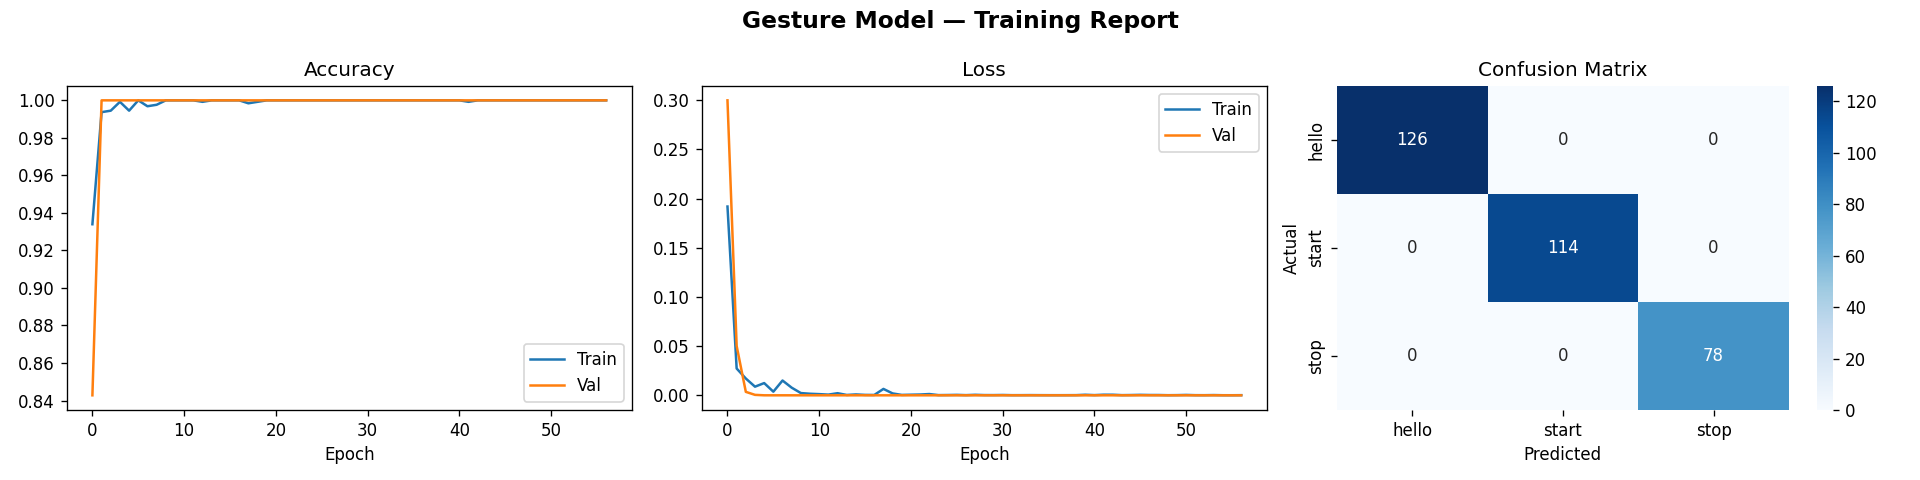
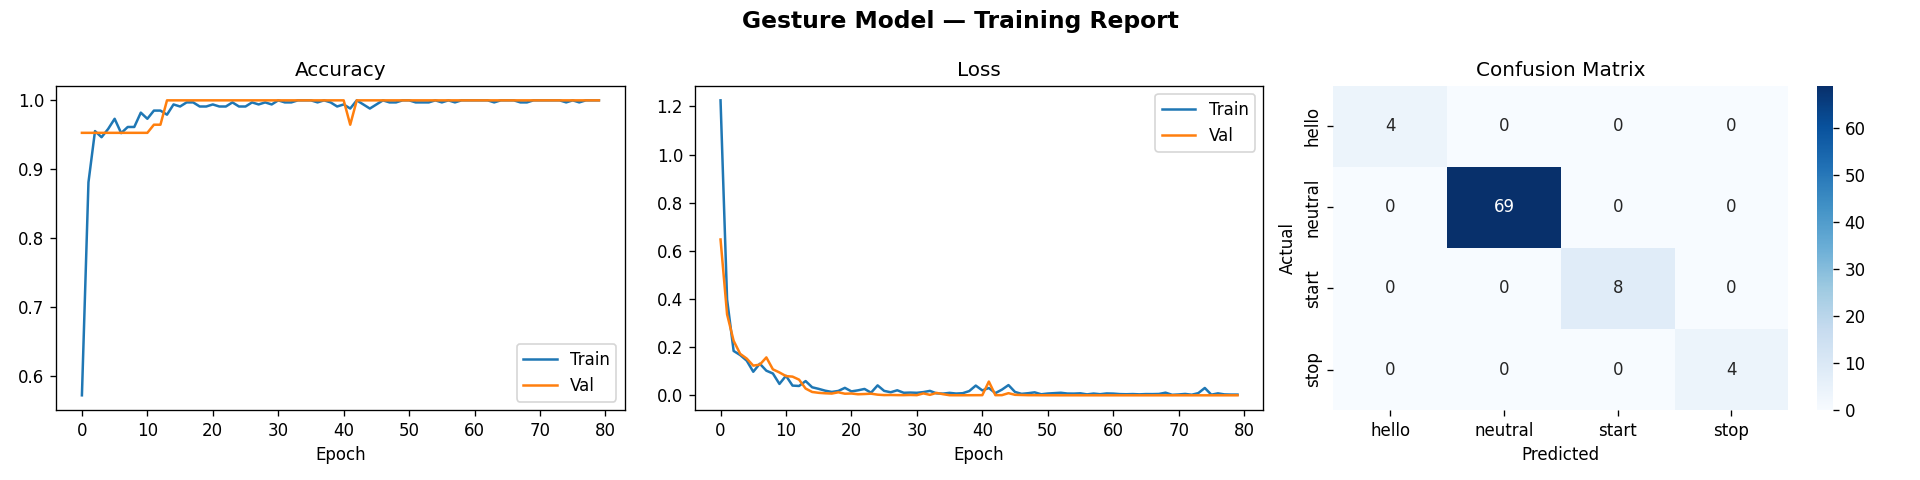
Fix train_model sequence and update project files

diff --git a/train_model.py b/train_model.py
@@ -1,14 +1,9 @@
 """
-Phase 2b — Model Training
+Phase 2b — Model Training (Fixed Architecture Layout)
 Reads gesture_data.csv → trains TensorFlow classifier → saves model + labels
 
 Run AFTER collect_data.py:
     python train_model.py
-
-Outputs:
-    gesture_model.keras   — trained model
-    gesture_labels.txt    — label index mapping (one label per line)
-    training_report.png   — accuracy/loss curves
 """
 
 import os
@@ -20,7 +15,6 @@ from sklearn.preprocessing import LabelEncoder
 from sklearn.metrics import classification_report, confusion_matrix
 import seaborn as sns
 import tensorflow as tf
-from keras import layers, callbacks
 
 # ─── Config ───────────────────────────────────────────────────────────────────
 CSV_FILE    = "gesture_data.csv"
@@ -37,7 +31,6 @@ tf.random.set_seed(SEED)
 np.random.seed(SEED)
 
 # ─── 1. Load data ─────────────────────────────────────────────────────────────
-# ─── 1. Load data ─────────────────────────────────────────────────────────────
 print("=" * 50)
 print("   Phase 2b — Gesture Model Training")
 print("=" * 50)
@@ -45,20 +38,14 @@ print("=" * 50)
 if not os.path.exists(CSV_FILE):
     raise FileNotFoundError(f"[ERROR] {CSV_FILE} not found. Run collect_data.py first.")
 
-# อ่านไฟล์ CSV ขึ้นมาตรวจสอบล่วงหน้า
 df_test = pd.read_csv(CSV_FILE, nrows=2)
-
-# เช็คตรรกะว่าแถวแรกเป็นหัวข้อตัวหนังสือ (label) หรือเป็นข้อมูลดิบขยะไปแล้ว
 first_cell = str(df_test.columns[0]).strip().lower()
 has_header = "label" in first_cell or first_cell.startswith("f")
 
 if has_header:
-    # ถ้ามีหัวข้อปกติ ให้อ่านมาแล้วล้างช่องว่าง (Strip Spaces) ออกจากชื่อคอลัมน์ทั้งหมด
     df = pd.read_csv(CSV_FILE)
     df.columns = df.columns.str.strip()
 else:
-    # หากตรวจสอบแล้วพบว่าเป็นไฟล์เก่าวรรณะขยะที่ไม่มีหัวข้อตาราง 
-    # เราจะทำการสวมชื่อคอลัมน์ให้มันเองโดยอัตโนมัติ เพื่อไม่ให้สคริปต์พัง
     print("[System Note] No valid string header found. Injecting structural column map dynamically...")
     total_cols = df_test.shape[1]
     feature_length = total_cols - 1
@@ -68,12 +55,12 @@ else:
 print(f"\n[Data] Loaded {len(df)} samples from {CSV_FILE}")
 print(f"[Data] Columns : {df.shape[1]-1} features + 1 label")
 
-# Show sample distribution
 print("\n[Data] Samples per gesture:")
 counts = df["label"].value_counts()
 for label, count in counts.items():
     bar = "█" * (count // 5) if (count // 5) > 0 else "▏"
     print(f"  {label:<15} {count:>4}  {bar}")
+
 # ─── 2. Prepare features & labels ────────────────────────────────────────────
 X = df.drop("label", axis=1).values.astype(np.float32)
 y_raw = df["label"].values
@@ -84,21 +71,18 @@ NUM_CLASSES = len(encoder.classes_)
 
 print(f"\n[Labels] {NUM_CLASSES} gestures: {list(encoder.classes_)}")
 
-# Save label list
 with open(LABELS_OUT, "w") as f:
     for label in encoder.classes_:
         f.write(label + "\n")
 print(f"[Labels] Saved to {LABELS_OUT}")
 
 # ─── 3. Normalize features ────────────────────────────────────────────────────
-# Simple min-max per feature across dataset
 X_min = X.min(axis=0)
 X_max = X.max(axis=0)
 denom = (X_max - X_min)
-denom[denom == 0] = 1.0           # avoid div by zero for zero-columns
+denom[denom == 0] = 1.0  
 X_norm = (X - X_min) / denom
 
-# Save normalization params so inference can use the same scaling
 np.save("feature_min.npy", X_min)
 np.save("feature_max.npy", X_max)
 print("[Norm] Saved feature_min.npy / feature_max.npy")
@@ -112,21 +96,22 @@ print(f"\n[Split] Train: {len(X_train)}  |  Val: {len(X_val)}")
 # ─── 5. Build model ───────────────────────────────────────────────────────────
 FEATURE_DIM = X_train.shape[1]
 
+# ปรับการดึง Layers ผ่าน tf.keras โดยตรง เพื่อรองรับ TensorFlow 2.16+ อย่างสมบูรณ์
 model = tf.keras.Sequential([
-    layers.Input(shape=(FEATURE_DIM,)),
+    tf.keras.layers.Input(shape=(FEATURE_DIM,)),
 
-    layers.Dense(256, activation="relu"),
-    layers.BatchNormalization(),
-    layers.Dropout(DROPOUT),
+    tf.keras.layers.Dense(256, activation="relu"),
+    tf.keras.layers.BatchNormalization(),
+    tf.keras.layers.Dropout(DROPOUT),
 
-    layers.Dense(128, activation="relu"),
-    layers.BatchNormalization(),
-    layers.Dropout(DROPOUT),
+    tf.keras.layers.Dense(128, activation="relu"),
+    tf.keras.layers.BatchNormalization(),
+    tf.keras.layers.Dropout(DROPOUT),
 
-    layers.Dense(64, activation="relu"),
-    layers.Dropout(DROPOUT * 0.5),
+    tf.keras.layers.Dense(64, activation="relu"),
+    tf.keras.layers.Dropout(DROPOUT * 0.5),
 
-    layers.Dense(NUM_CLASSES, activation="softmax"),
+    tf.keras.layers.Dense(NUM_CLASSES, activation="softmax"),
 ], name="gesture_classifier")
 
 model.summary()
@@ -138,9 +123,9 @@ model.compile(
 )
 
 # ─── 6. Callbacks ─────────────────────────────────────────────────────────────
-cb_early  = callbacks.EarlyStopping(patience=15, restore_best_weights=True, verbose=1)
-cb_reduce = callbacks.ReduceLROnPlateau(factor=0.5, patience=8, verbose=1)
-cb_ckpt   = callbacks.ModelCheckpoint(MODEL_OUT, save_best_only=True, verbose=1)
+cb_early  = tf.keras.callbacks.EarlyStopping(patience=15, restore_best_weights=True, verbose=1)
+cb_reduce = tf.keras.callbacks.ReduceLROnPlateau(factor=0.5, patience=8, verbose=1)
+cb_ckpt   = tf.keras.callbacks.ModelCheckpoint(MODEL_OUT, save_best_only=True, verbose=1)
 
 # ─── 7. Train ─────────────────────────────────────────────────────────────────
 print("\n[Train] Starting...\n")
@@ -167,17 +152,14 @@ print(classification_report(y_val, y_pred, target_names=encoder.classes_))
 fig, axes = plt.subplots(1, 3, figsize=(16, 4))
 fig.suptitle("Gesture Model — Training Report", fontsize=14, fontweight="bold")
 
-# Accuracy
 axes[0].plot(history.history["accuracy"],     label="Train")
 axes[0].plot(history.history["val_accuracy"], label="Val")
 axes[0].set_title("Accuracy"); axes[0].legend(); axes[0].set_xlabel("Epoch")
 
-# Loss
 axes[1].plot(history.history["loss"],     label="Train")
 axes[1].plot(history.history["val_loss"], label="Val")
 axes[1].set_title("Loss"); axes[1].legend(); axes[1].set_xlabel("Epoch")
 
-# Confusion matrix
 cm = confusion_matrix(y_val, y_pred)
 sns.heatmap(cm, annot=True, fmt="d", ax=axes[2],
             xticklabels=encoder.classes_,
@@ -190,17 +172,18 @@ plt.tight_layout()
 plt.savefig(REPORT_OUT, dpi=120)
 print(f"\n[Plot] Saved training report to {REPORT_OUT}")
 
-# ─── 10. Summary ──────────────────────────────────────────────────────────────
+# ─── 10. Summary & Precise Word Export ────────────────────────────────────────
+# บังคับบันทึกคำศัพท์โดยดึงอาเรย์มาจาก encoder โดยตรง ป้องกันคลาสสลับในระบบทำนายผล
+trained_words = list(encoder.classes_)
+np.save('gesture_words.npy', np.array(trained_words))
+
 print("\n" + "=" * 50)
-print("  Training complete!")
-print(f"  Model  → {MODEL_OUT}")
-print(f"  Labels → {LABELS_OUT}")
-print(f"  Report → {REPORT_OUT}")
-print(f"  Val accuracy: {acc*100:.1f}%")
+print("   Training complete!")
+print(f"   Model  → {MODEL_OUT}")
+print(f"   Labels → {LABELS_OUT}")
+print(f"   Report → {REPORT_OUT}")
+print(f"   Words  → gesture_words.npy (Locked Sequence)")
+print(f"   Val accuracy: {acc*100:.1f}%")
 print("=" * 50)
+print(f"[SYSTEM] Exported unique array: {trained_words}")
 print("\nNext: run phase3_inference.py to test live predictions.")
-# --- ADD THIS INSIDE YOUR train_model SCRIPT ---
-# Save the ordered word list right after processing your classes
-unique_words = sorted(df['label'].unique().tolist())  # or your exact classes array
-np.save('gesture_words.npy', np.array(unique_words))
-print(f"[SYSTEM] Exported trained words layout to gesture_words.npy: {unique_words}")